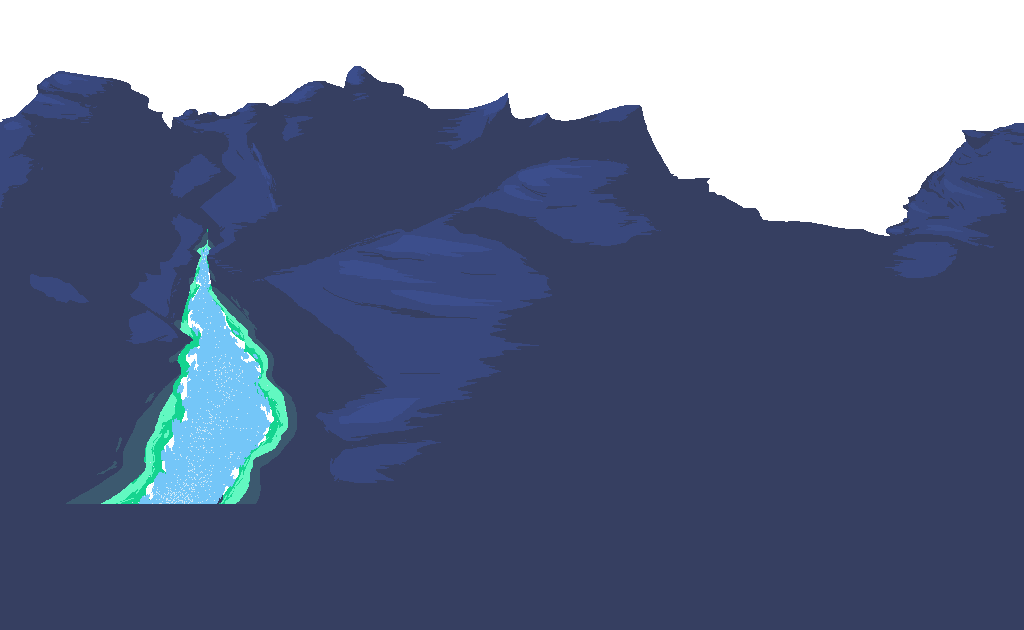
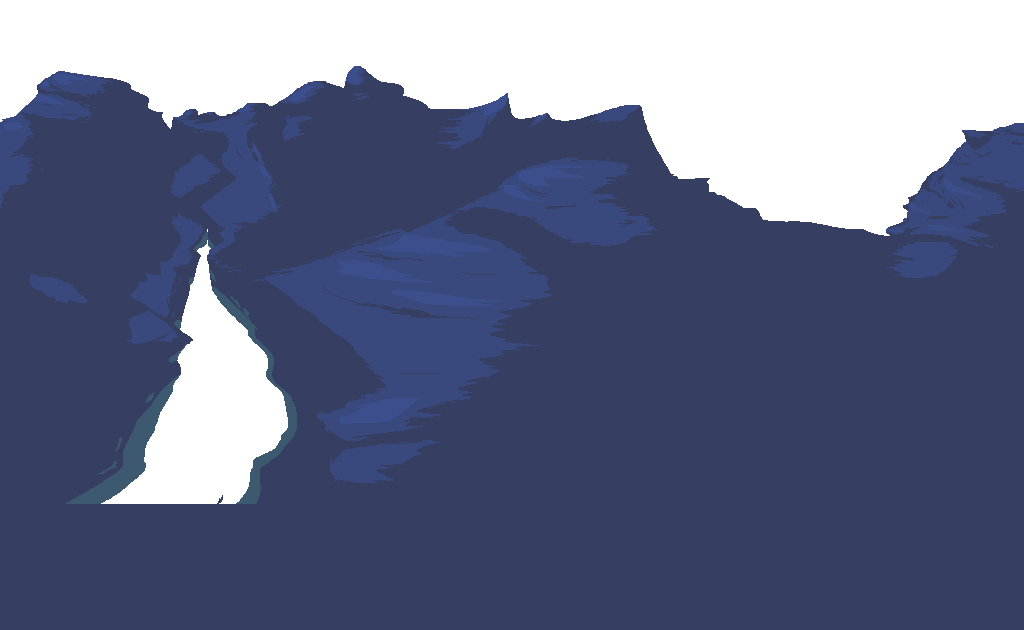
slightly changed riven hive surface background

Changed region(s): [[0.0938, 0.3921, 0.2812, 0.8143]]

diff --git a/Backgrounds/Riven_Surface_Background.cs b/Backgrounds/Riven_Surface_Background.cs
@@ -4,21 +4,26 @@ using Origins;
 using Origins.Reflection;
 using Origins.World.BiomeData;
 using ReLogic.Content;
+using System;
 using Terraria;
 using Terraria.GameContent;
+using Terraria.Graphics.Effects;
 using Terraria.ModLoader;
 
 namespace Origins.Backgrounds {
 	public class Riven_Surface_Background : ModSurfaceBackgroundStyle {
-		Asset<Texture2D> glowTexture;
+		Asset<Texture2D> farGlowTexture;
+		Asset<Texture2D> closeGlowTexture;
 		public override int ChooseFarTexture() {
 			int textureSlot = BackgroundTextureLoader.GetBackgroundSlot("Origins/Backgrounds/Riven_Background3");
-			glowTexture ??= ModContent.Request<Texture2D>("Origins/Backgrounds/Riven_Background3_Glow");
-			Color glowColor = Color.Lerp(MainReflection.ColorOfSurfaceBackgroundsModified, Color.White, Riven_Hive.NormalGlowValue.GetValue() * 0.5f + 0.25f);
-			glowColor.A = 255;
+			farGlowTexture ??= ModContent.Request<Texture2D>("Origins/Backgrounds/Riven_Background3_Glow");
+			Color baseColor = MainReflection.ColorOfSurfaceBackgroundsModified;
+			Color glowColor = Color.Lerp(baseColor, Color.White, Riven_Hive.NormalGlowValue.GetValue() * 0.5f + 0.25f);
+			glowColor *= Main.bgAlphaFarBackLayer[Slot];
+			glowColor.A = baseColor.A;
 			for (int i = 0; i < MainReflection.bgLoops.GetValue(Main.instance); i++) {
 				Main.spriteBatch.Draw(
-					glowTexture.Value,
+					farGlowTexture.Value,
 					new Vector2(MainReflection.bgStartX.GetValue(Main.instance) + MainReflection.bgWidthScaled * i, MainReflection.bgTopY.GetValue(Main.instance)),
 					new Rectangle(0, 0, Main.backgroundWidth[textureSlot], Main.backgroundHeight[textureSlot]),
 					glowColor,
@@ -38,7 +43,59 @@ namespace Origins.Backgrounds {
 		public override int ChooseCloseTexture(ref float scale, ref double parallax, ref float a, ref float b) {
 			return BackgroundTextureLoader.GetBackgroundSlot("Origins/Backgrounds/Riven_Background");
 		}
+		public override bool PreDrawCloseBackground(SpriteBatch spriteBatch) {
+			closeGlowTexture ??= ModContent.Request<Texture2D>("Origins/Backgrounds/Riven_Background_Glow");
+			Color baseColor = MainReflection.ColorOfSurfaceBackgroundsModified;
+			Color glowColor = Color.Lerp(baseColor, Color.White, Riven_Hive.NormalGlowValue.GetValue() * 0.5f + 0.25f);
+			glowColor *= Main.bgAlphaFrontLayer[Slot];
+			glowColor.A = baseColor.A;
 
+			MainReflection.bgScale = 1.25f;
+			double bgParallax = 0.37;
+			float a = 1800f;
+			float b = 1750f;
+
+			float bgScale = MainReflection.bgScale;
+			int textureSlot = ChooseCloseTexture(ref bgScale, ref bgParallax, ref a, ref b);
+			Main.instance.LoadBackground(textureSlot);
+			MainReflection.bgScale = bgScale * 2f;
+			MainReflection.bgWidthScaled = (int)(Main.backgroundWidth[textureSlot] * MainReflection.bgScale);
+			SkyManager.Instance.DrawToDepth(Main.spriteBatch, 1f / (float)bgParallax);
+			MainReflection.Instance_bgStartX = (int)(-Math.IEEERemainder(Main.screenPosition.X * bgParallax, MainReflection.bgWidthScaled) - (MainReflection.bgWidthScaled / 2));
+			MainReflection.Instance_bgTopY = (int)((-(Main.screenPosition.Y + MainReflection.Instance_screenOff / 2f)) / (Main.worldSurface * 16.0) * a + b)
+				+ (int)MainReflection.Instance_scAdj;
+			if (Main.gameMenu) {
+				MainReflection.Instance_bgTopY = 320;
+			}
+			MainReflection.Instance_bgLoops = Main.screenWidth / MainReflection.bgWidthScaled + 2;
+			if (Main.screenPosition.Y < Main.worldSurface * 16.0 + 16.0) {
+				for (int i = 0; i < MainReflection.Instance_bgLoops; i++) {
+					Vector2 position = new Vector2(MainReflection.Instance_bgStartX + MainReflection.bgWidthScaled * i, MainReflection.Instance_bgTopY);
+					Rectangle frame = new Rectangle(0, 0, Main.backgroundWidth[textureSlot], Main.backgroundHeight[textureSlot]);
+					Main.spriteBatch.Draw(
+						TextureAssets.Background[textureSlot].Value,
+						position,
+						frame,
+						MainReflection.ColorOfSurfaceBackgroundsModified,
+						0f,
+						default,
+						MainReflection.bgScale,
+						SpriteEffects.None, 
+					0f);
+					Main.spriteBatch.Draw(
+						closeGlowTexture.Value,
+						position,
+						frame,
+						glowColor,
+						0f,
+						default,
+						MainReflection.bgScale,
+						SpriteEffects.None, 
+					0f);
+				}
+			}
+			return false;
+		}
 		public override void ModifyFarFades(float[] fades, float transitionSpeed) {
 			for (int i = 0; i < fades.Length; i++) {
 				if (i == Slot) {

diff --git a/Reflection/MainReflection.cs b/Reflection/MainReflection.cs
@@ -7,14 +7,21 @@ using Terraria.ModLoader;
 namespace Origins.Reflection {
 	public class MainReflection : ILoadable {
 		public static FastFieldInfo<Main, int> bgLoops;
+		public static int Instance_bgLoops { get => bgLoops.GetValue(Main.instance); set => bgLoops.SetValue(Main.instance, value); }
 		public static FastFieldInfo<Main, int> bgStartX;
+		public static int Instance_bgStartX { get => bgStartX.GetValue(Main.instance); set => bgStartX.SetValue(Main.instance, value); }
 		public static FastFieldInfo<Main, int> bgTopY;
+		public static int Instance_bgTopY { get => bgTopY.GetValue(Main.instance); set => bgTopY.SetValue(Main.instance, value); }
 		static FastStaticFieldInfo<Main, int> _bgWidthScaled;
 		public static int bgWidthScaled { get => _bgWidthScaled.GetValue(); set => _bgWidthScaled.SetValue(value); }
 		static FastStaticFieldInfo<Main, float> _bgScale;
 		public static float bgScale { get => _bgScale.GetValue(); set => _bgScale.SetValue(value); }
 		static FastStaticFieldInfo<Main, Color> _ColorOfSurfaceBackgroundsModified;
 		public static Color ColorOfSurfaceBackgroundsModified { get => _ColorOfSurfaceBackgroundsModified.GetValue(); set => _ColorOfSurfaceBackgroundsModified.SetValue(value); }
+		public static FastFieldInfo<Main, float> scAdj;
+		public static float Instance_scAdj { get => scAdj.GetValue(Main.instance); set => scAdj.SetValue(Main.instance, value); }
+		public static FastFieldInfo<Main, float> screenOff;
+		public static float Instance_screenOff { get => screenOff.GetValue(Main.instance); set => screenOff.SetValue(Main.instance, value); }
 		public void Load(Mod mod) {
 			bgLoops = new("bgLoops", BindingFlags.NonPublic);
 			bgStartX = new("bgStartX", BindingFlags.NonPublic);
@@ -22,6 +29,8 @@ namespace Origins.Reflection {
 			_bgWidthScaled = new("bgWidthScaled", BindingFlags.NonPublic);
 			_bgScale = new("bgScale", BindingFlags.NonPublic);
 			_ColorOfSurfaceBackgroundsModified = new("ColorOfSurfaceBackgroundsModified", BindingFlags.NonPublic);
+			scAdj = new("scAdj", BindingFlags.NonPublic);
+			screenOff = new("screenOff", BindingFlags.NonPublic);
 		}
 		public void Unload() {
 			bgLoops = null;
@@ -30,6 +39,8 @@ namespace Origins.Reflection {
 			_bgWidthScaled = null;
 			_bgScale = null;
 			_ColorOfSurfaceBackgroundsModified = null;
+			scAdj = null;
+			screenOff = null;
 		}
 	}
 }
